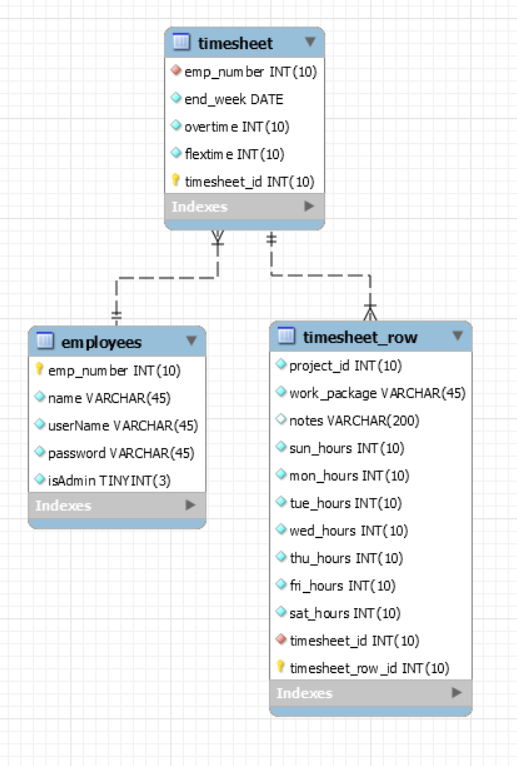
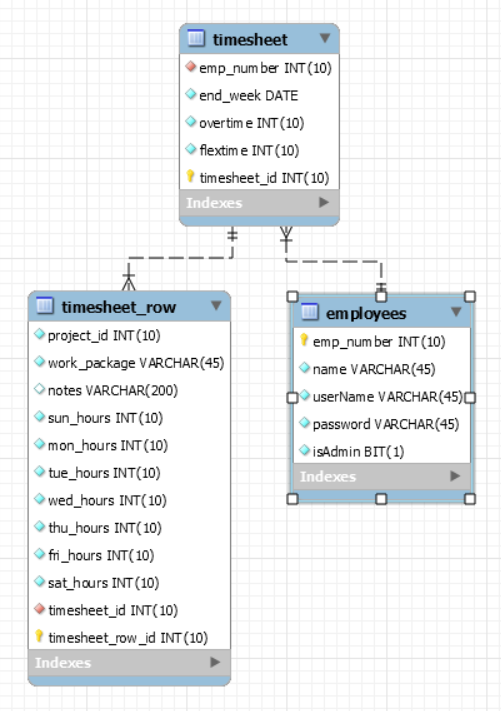
seriously last time we change the db

Changed region(s): [[0.2994, 0.0309, 0.9581, 0.9592], [0.0299, 0.3404, 0.479, 0.9902], [0.3293, 0.3404, 0.3593, 0.3713]]

diff --git a/JavaSource/models/Employees.java b/JavaSource/models/Employees.java
@@ -25,13 +25,13 @@ public class Employees implements Serializable {
     private String password;
     
     @Column(name="isAdmin")
-    private int isAdmin;
+    private boolean isAdmin;
 
-    public int getIsAdmin() {
+    public boolean getIsAdmin() {
         return isAdmin;
     }
 
-    public void setIsAdmin(int isAdmin) {
+    public void setIsAdmin(boolean isAdmin) {
         this.isAdmin = isAdmin;
     }
 

diff --git a/JavaSource/controller/EmployeeFormAccess.java b/JavaSource/controller/EmployeeFormAccess.java
@@ -241,7 +241,8 @@ public class EmployeeFormAccess implements Serializable {
      * @return true if the current logged in user is the admin
      */
     public boolean isAdmin() {
-        return currentUser.getIsAdmin() == 1;
+        return true;
+        //return currentUser.getIsAdmin();
     }
     
     /**
